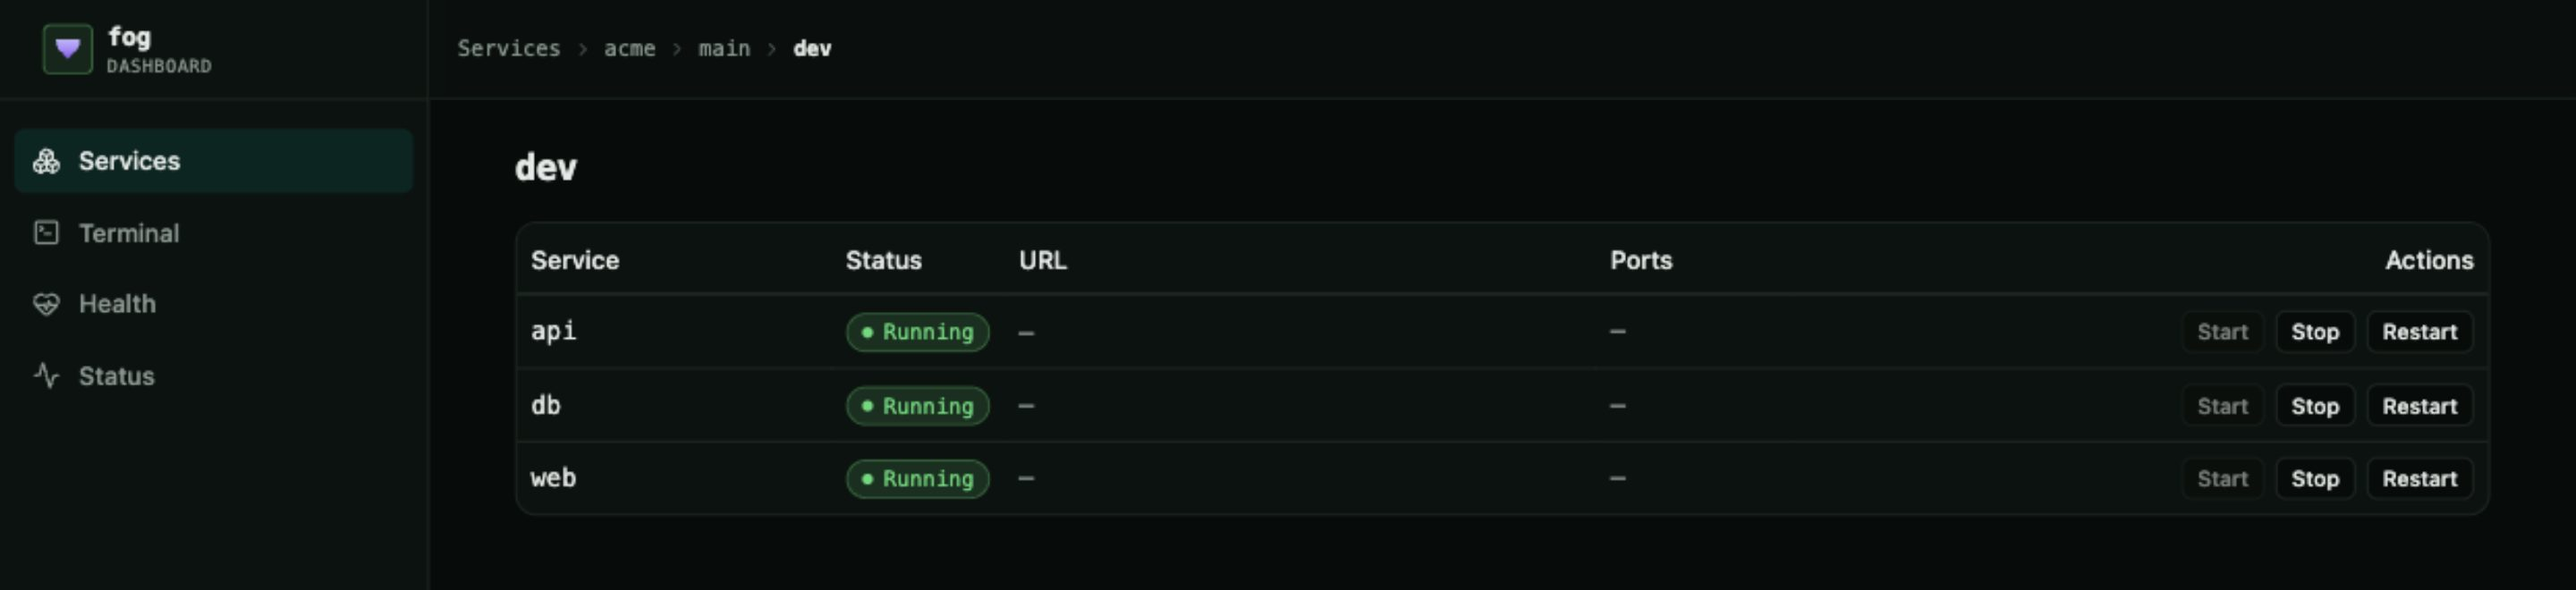
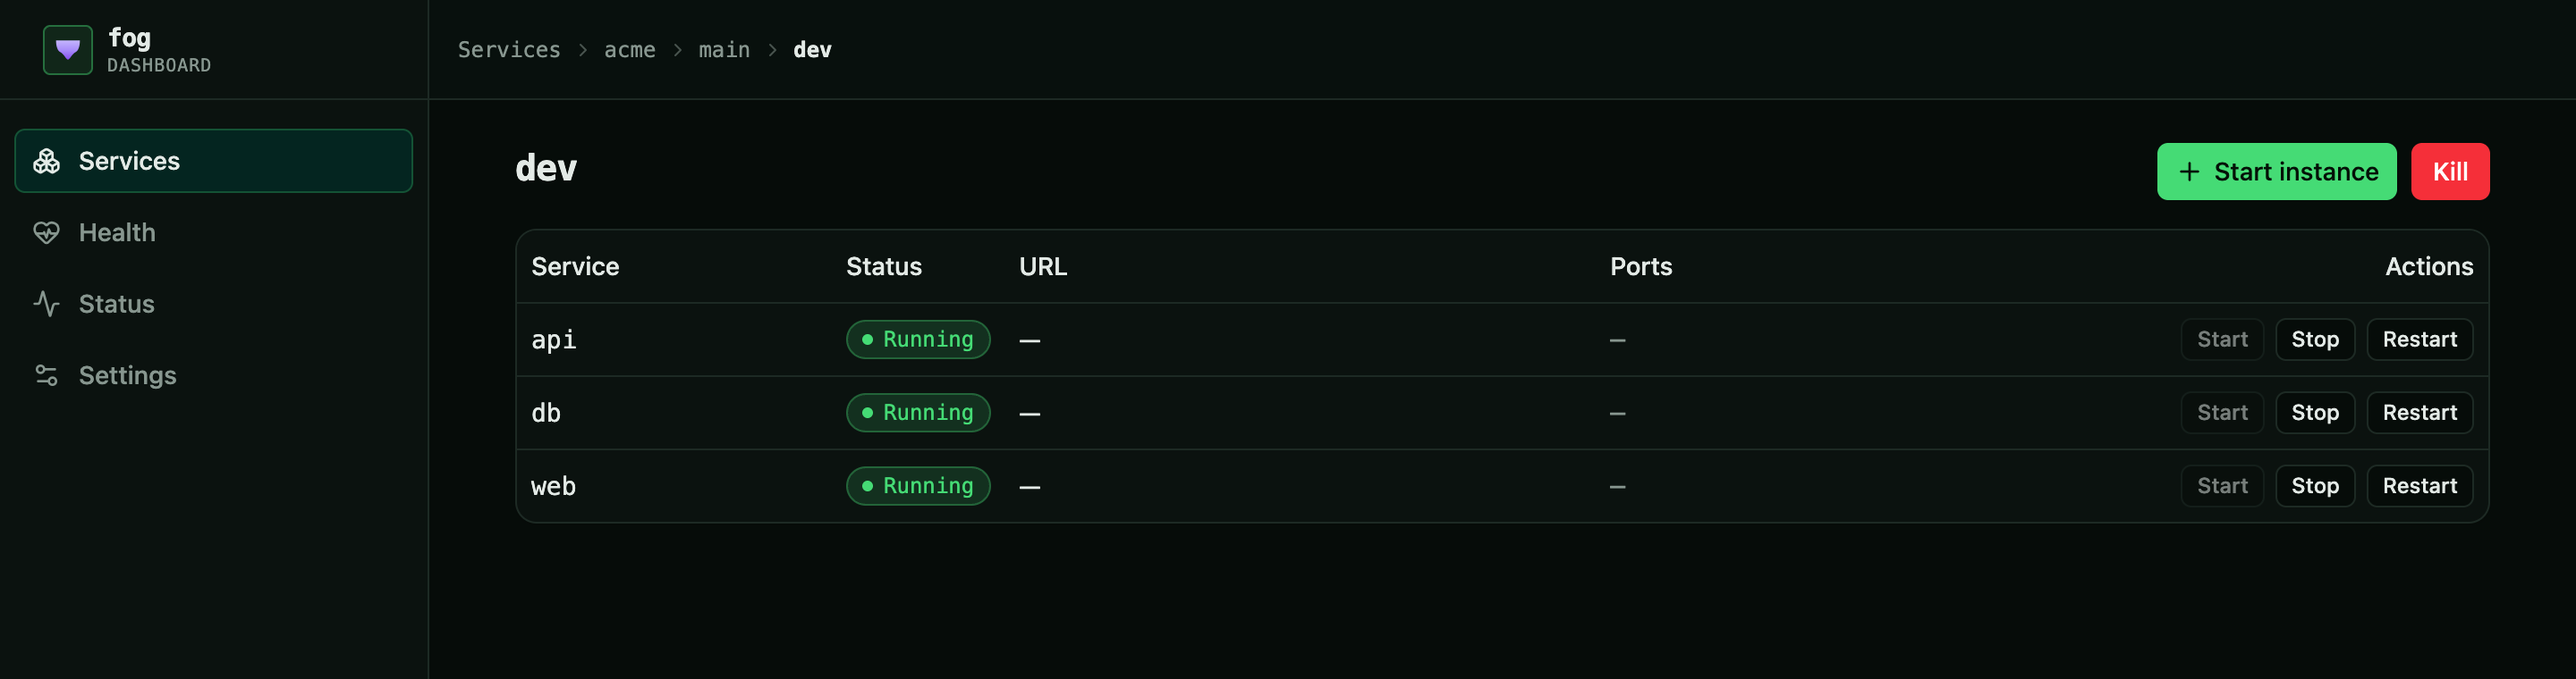
docs: refresh web UI docs and screenshots

diff --git a/docs/agentic.md b/docs/agentic.md
@@ -118,9 +118,9 @@ For the full index server and launch API, see [Index Server](/index-server).
 
 1. On laptop, `tailscale ip -4` → e.g. `100.86.26.45`. Ensure a `fog dev` is running — the index server at `127.0.0.1:18080` is exposed on `:80` via Traefik's catch-all.
 2. On phone (same tailnet, no DNS config), open `http://<tailnet IP>`. The directory lists every running service with `http://<tailnet IP>:<port>` links (raw exposed port), grouped by project/worktree — tap to open or copy. `*.acme` wildcard hostnames resolve only on the laptop; phone must use the IP:port links.
-3. Live logs: `Logs` → pick service → streams with ANSI colors, follow/copy/clear.
+3. Live logs: open a project → branch → script page and tap a service row. Its drawer opens on `Logs (SSE)` — the stream keeps ANSI colors and offers follow/copy/clear — and the toggle switches it to `Terminal (PTY)` for an interactive shell.
 
-Launching via phone (`Status → Start instance`) works but the layout is tight — prefer desktop for launch; phone is best for view/logs/copy.
+Launching via phone (`Status` → **Start instance**, or the **Start instance** button on the services index) works but the layout is tight — prefer desktop for launch; phone is best for view/logs/copy.
 
 ## Troubleshooting for agentic use
 

diff --git a/docs/index-server.md b/docs/index-server.md
@@ -204,3 +204,22 @@ still reports one dir's scripts, branch and worktrees for scripts and tools):
 Like the service-action endpoint, this is a **localhost-only write path** — the
 index server binds to `127.0.0.1` only, so any local process could start fog
 instances. Do not expose the index port (`18080`) externally.
+
+### Settings
+
+The `/settings` page holds **browser-local** preferences:
+
+- **Polling interval** — how often services, status and health refetch
+  (`2s`, `5s`, `10s`, `30s`, or off);
+- **Default view** — the pane a service opens on, `Logs (SSE)` or
+  `Terminal (PTY)`;
+- **Initial log lines** — how much log is backfilled before the live stream
+  starts (`100`–`2000`);
+- **Font size** — the xterm font size (`11`–`18 px`);
+- **Swipe between pages** — move between the primary destinations with a
+  horizontal swipe on touch devices.
+
+They tune this browser's dashboard, never the running instance, so they live in
+`localStorage` under `fog:ui:preferences` rather than `fog.json`. Stored values
+from an older version are validated on read and fall back to their defaults, and
+**Reset** restores every default.
